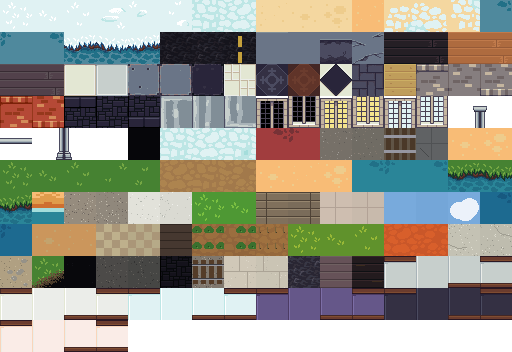
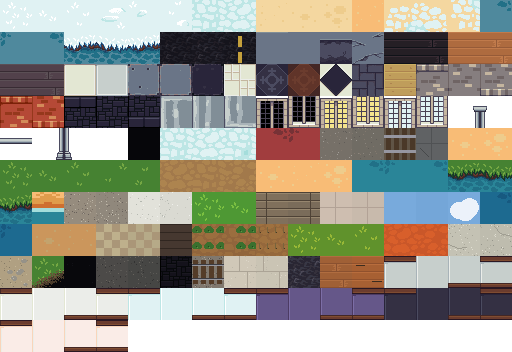
Warm wood for the farm floors, debug day/flag queries, debug map jumps set the case
Claude-Session: https://claude.ai/code/session_018EmrAHxbrZaRbR3o8kNiWJ

Changed region(s): [[0.625, 0.7188, 0.75, 0.8438]]

diff --git a/tools/art_kelly.py b/tools/art_kelly.py
@@ -141,11 +141,11 @@ def special_tile_kelly(name, base_tile):
         im = base_tile(F + "Gritty Dirt.png", 1, 1).convert("RGBA")
         return _mul(im, 0.6, 0.6, 0.62, 10)
     if name == "porch_boards":
-        im = base_tile(F + "Wood Floor A.png", 1, 3).convert("RGBA")
-        return _mul(im, 1.05, 1.02, 0.96, 16)
+        im = base_tile(F + "Wood Floor A.png", 2, 1).convert("RGBA")
+        return _mul(im, 0.92, 0.9, 0.86, 0)
     if name == "farm_floor":
-        im = base_tile(F + "Wood Floor A.png", 0, 3).convert("RGBA")
-        _mul(im, 0.96, 0.9, 0.82)
+        im = base_tile(F + "Wood Floor A.png", 2, 0).convert("RGBA")
+        im = _mul(im, 0.96, 0.9, 0.82)
         d = ImageDraw.Draw(im)
         d.line([(4, 9), (12, 9)], fill=(60, 44, 30, 255))
         d.line([(20, 25), (29, 25)], fill=(60, 44, 30, 255))

diff --git a/CLAUDE.md b/CLAUDE.md
@@ -11,5 +11,5 @@
 - A district is one map file; `exits` walk the party to another map, `gates` in the case data lock exits, doors and barrier props. Day phases (morning, day, dusk, night) drive NPC `when` routines and trail signs with `night`.
 - Speech checks and evidence rules are in `scripts/investigation.gd` (static, no scene access) so tests can drive them with forced rolls.
 - Run `tests/run_tests.gd` headless before pushing; CI runs the same check and the web export.
-- Web debug: `?map=<map id>`, `?inside=<room>`, `?at=x,y` (tiles, room tiles when combined with `?inside`), `?time=0..1` and `?road=<leg id>` on the index URL jump the party around for screenshots. After adding a `class_name` script run `godot --headless --path . --import` or the tests will not see it.
+- Web debug: `?map=<map id>`, `?inside=<room>`, `?at=x,y` (tiles, room tiles when combined with `?inside`), `?time=0..1`, `?day=<n>`, `?flag=<a,b>` and `?road=<leg id>` on the index URL jump the party around for screenshots. After adding a `class_name` script run `godot --headless --path . --import` or the tests will not see it.
 - Design source of truth: the "Anomaly Files: JRPG Design Plan" doc, section "Systems v2" and "Season 1 build plan".
